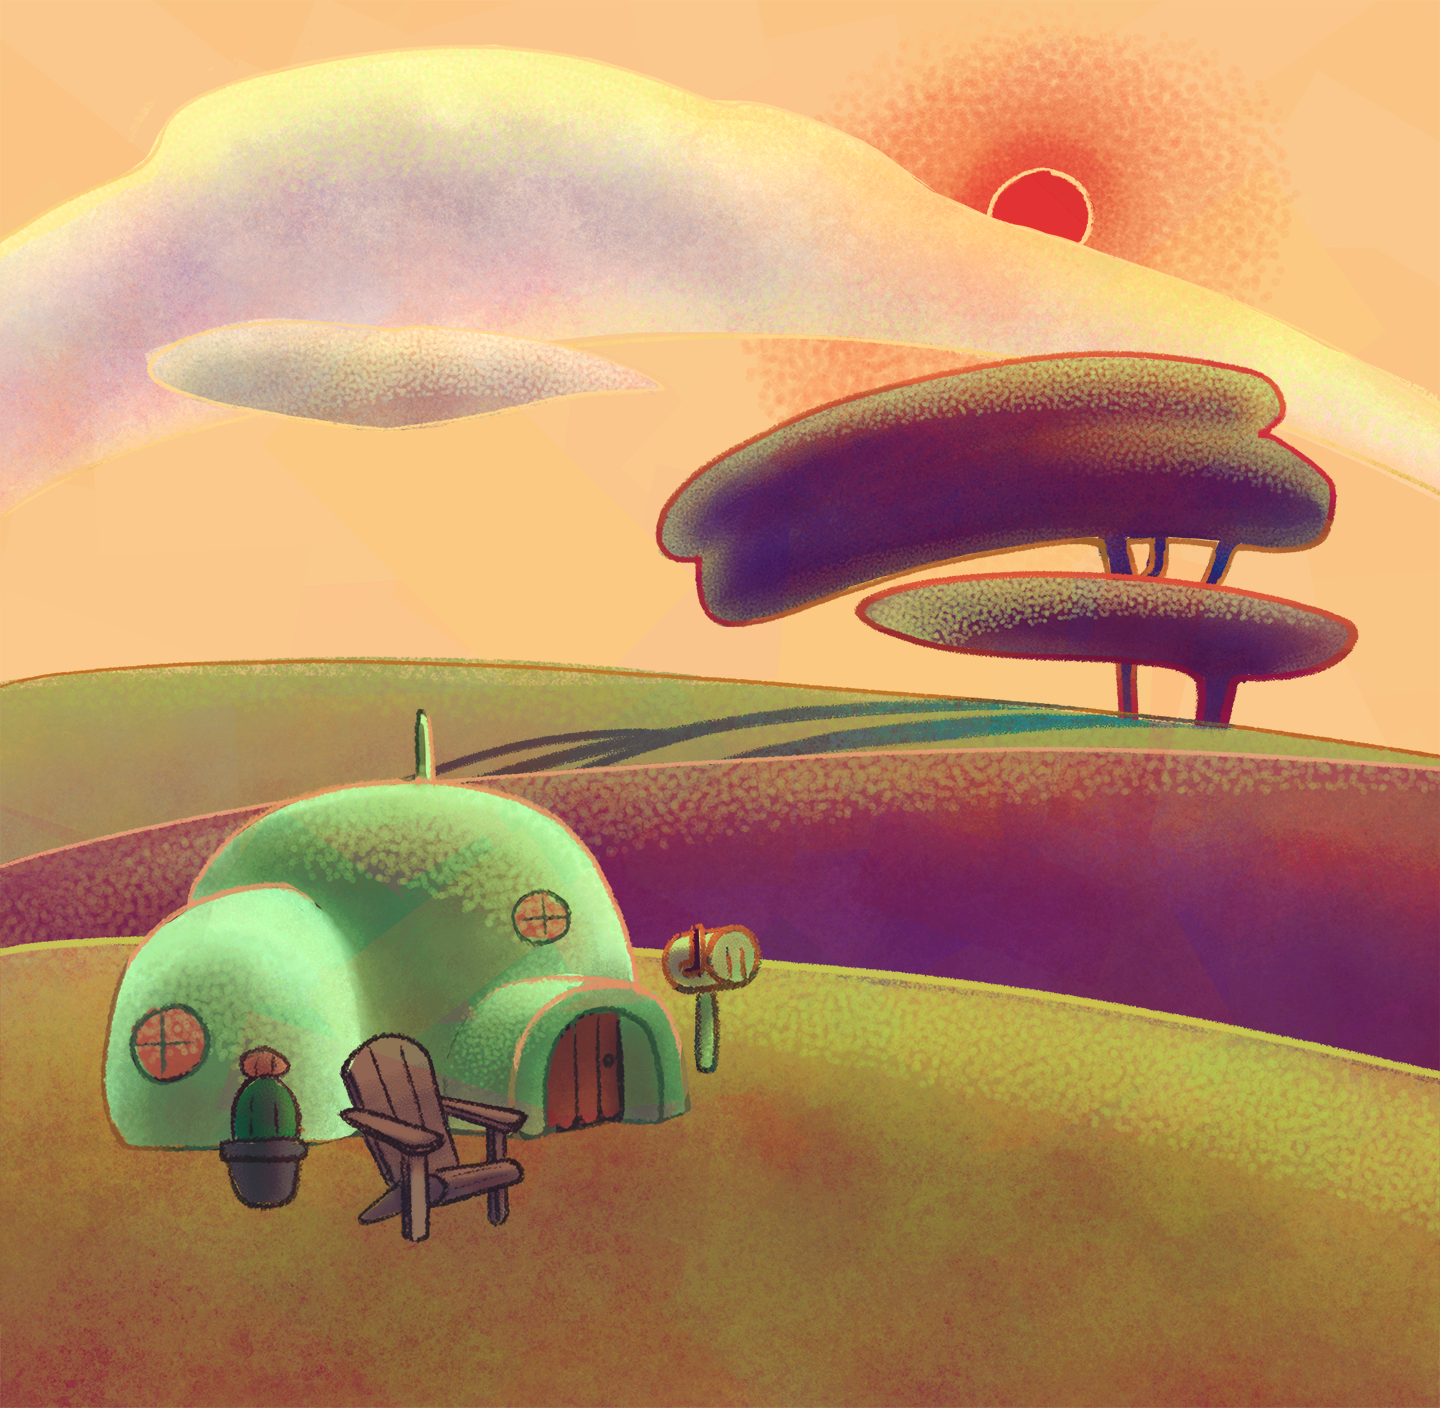
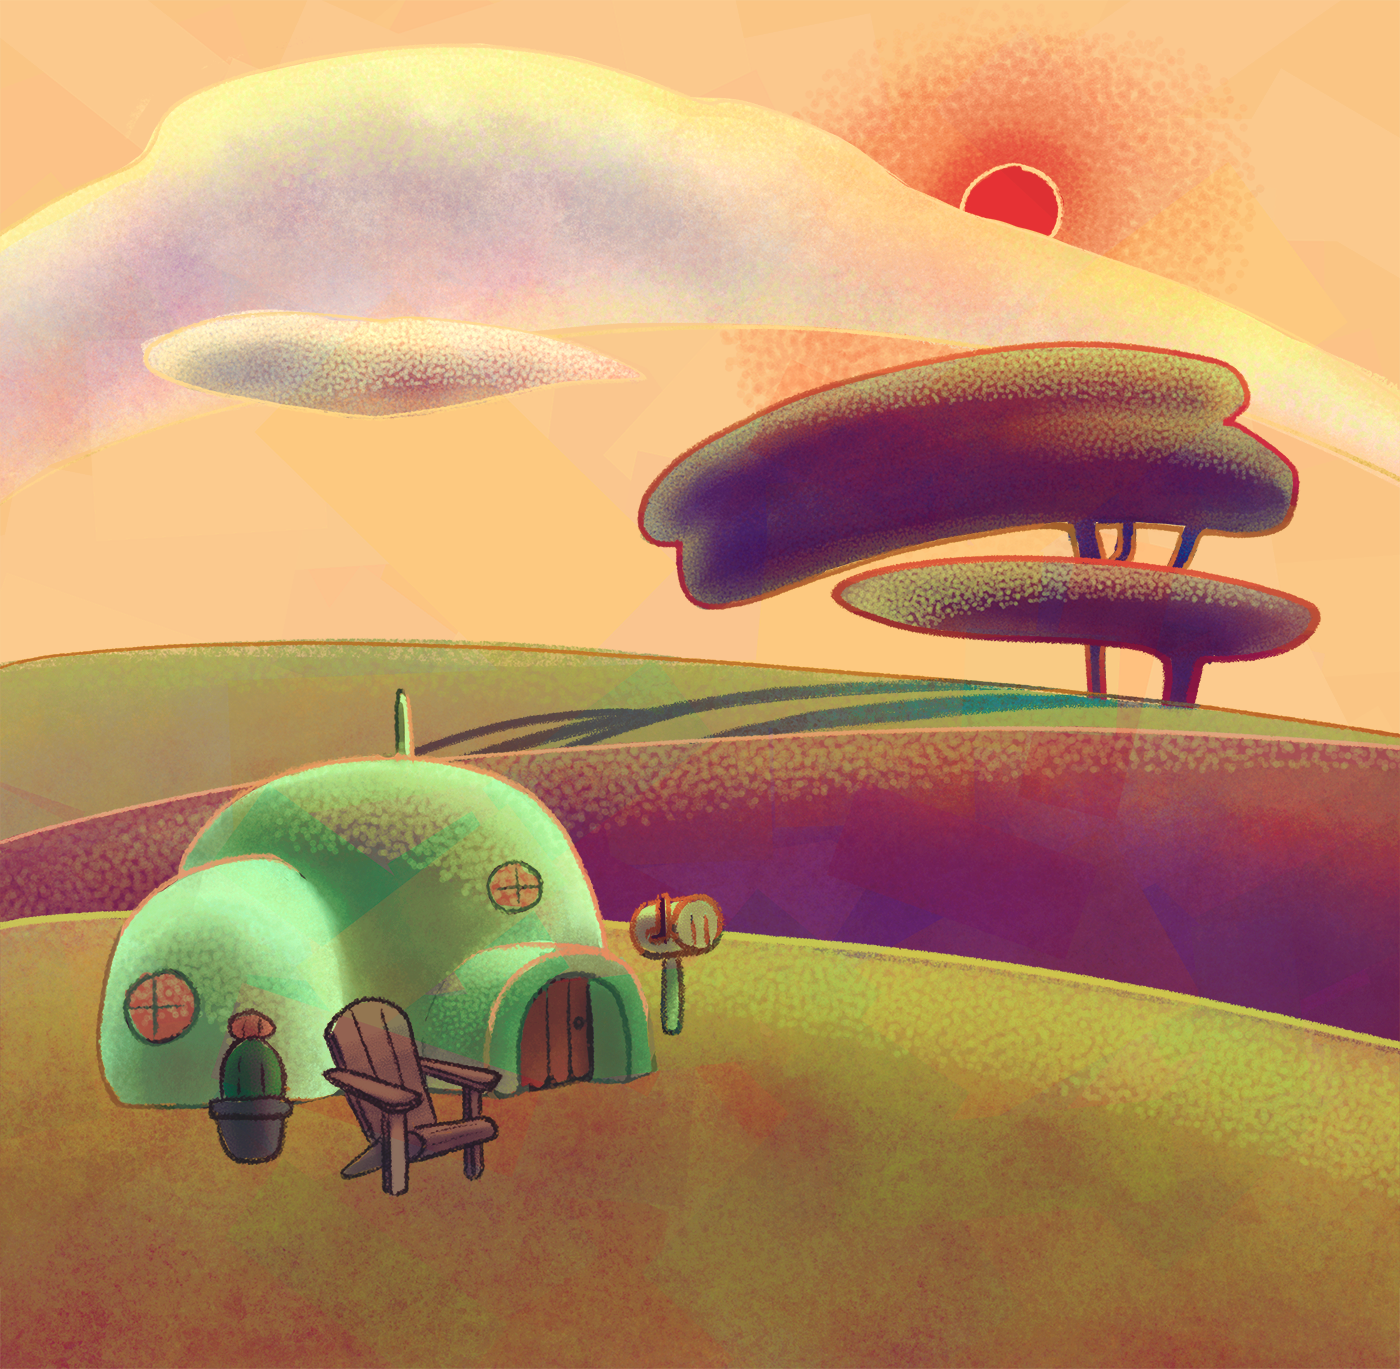
added parallax

Changed region(s): [[0.0614, 0.4909, 0.5529, 0.8897], [0.2764, 0.2761, 0.3071, 0.3068]]

diff --git a/index.html b/index.html
@@ -21,69 +21,93 @@
                     <h2 id="subheader">You have arrived, weary traveler!</h2>
                 </div>
                 <!-- TODO: convert to webp -->
-                <div id="landscape1">
+                <div id="landscape1" style="display: none">
                     <img
                         alt="home image"
                         id="landscape1__sun"
+                        class="parallax"
+                        data-rellax-speed="-10"
                         src="/images/landscape1__sun.png"
                     />
                     <img
                         alt="home image"
                         id="landscape1__clouds"
+                        class="parallax"
+                        data-rellax-speed="-5"
                         src="/images/landscape1__clouds.png"
                     />
                     <img
                         alt="home image"
                         id="landscape1__third-slope"
+                        class="parallax"
+                        data-rellax-speed="1"
                         src="/images/landscape1__third-slope.png"
                     />
                     <img
                         alt="home image"
                         id="landscape1__second-slope"
+                        class="parallax"
+                        data-rellax-speed="4"
                         src="/images/landscape1__second-slope.png"
                     />
                     <img
                         alt="home image"
                         id="landscape1__first-slope"
+                        class="parallax"
+                        data-rellax-speed="10"
                         src="/images/landscape1__first-slope.png"
                     />
                 </div>
 
                 <!-- TODO: switch styles, for now manual css tag -->
-                <div id="landscape2" style="display: none">
+                <div id="landscape2">
                     <img
                         alt="home image"
                         id="landscape2__moon"
+                        class="parallax"
+                        data-rellax-speed="-10"
                         src="/images/landscape2__moon.png"
                     />
                     <img
                         alt="home image"
                         id="landscape2__clouds"
+                        class="parallax"
+                        data-rellax-speed="-5"
                         src="/images/landscape2__clouds.png"
                     />
                     <img
                         alt="home image"
                         id="landscape2__fourth-mountain"
+                        class="parallax"
+                        data-rellax-speed="1"
                         src="/images/landscape2__fourth-mountain.png"
                     />
                     <img
                         alt="home image"
                         id="landscape2__third-row"
+                        class="parallax"
+                        data-rellax-speed="3"
                         src="/images/landscape2__third-row.png"
                     />
                     <img
                         alt="home image"
                         id="landscape2__second-trees"
+                        class="parallax"
+                        data-rellax-speed="5"
                         src="/images/landscape2__second-trees.png"
                     />
                     <img
                         alt="home image"
                         id="landscape2__first-grass"
+                        class="parallax"
+                        data-rellax-speed="8"
                         src="/images/landscape2__first-grass.png"
                     />
                     <img
                         alt="home image"
                         id="landscape2__front-bushes"
+                        class="parallax"
+                        data-rellax-speed="12"
                         src="/images/landscape2__front-bushes.png"
                     />
                 </div>
@@ -171,5 +195,6 @@
             <i class="bi bi-arrow-up"></i>
         </a>
     </body>
-    <script src="main.js"></script>
+    <script src="https://cdn.jsdelivr.net/gh/dixonandmoe/rellax@master/rellax.min.js"></script>
+    <script src="/scripts/main.js"></script>
 </html>

diff --git a/styles.css b/styles.css
@@ -290,26 +290,6 @@ h1 {
     }
 }
 
-/* ------- Art -------- */
-#art {
-    overflow: hidden;
-
-    #art__carousel {
-        display: flex;
-        flex-direction: row;
-        height: 200px;
-        overflow-y: hidden;
-        overflow-x: auto;
-        flex-wrap: nowrap;
-
-        .art__carousel-img {
-            width: 200px;
-            height: 200px;
-            flex: 0 0 auto;
-        }
-    }
-}
-
 /* ------- Contact -------- */
 #contact {
     #contact__links {

diff --git a/scripts/main.js b/scripts/main.js
@@ -1,3 +1,6 @@
+/*=============== PARALLAX ===============*/
+let parallax = new Rellax(".parallax");
+
 /* ------- Change header background when scrolled past -------- */
 const addBgToHeaderOnScroll = () => {
     const header = document.getElementById("header");
